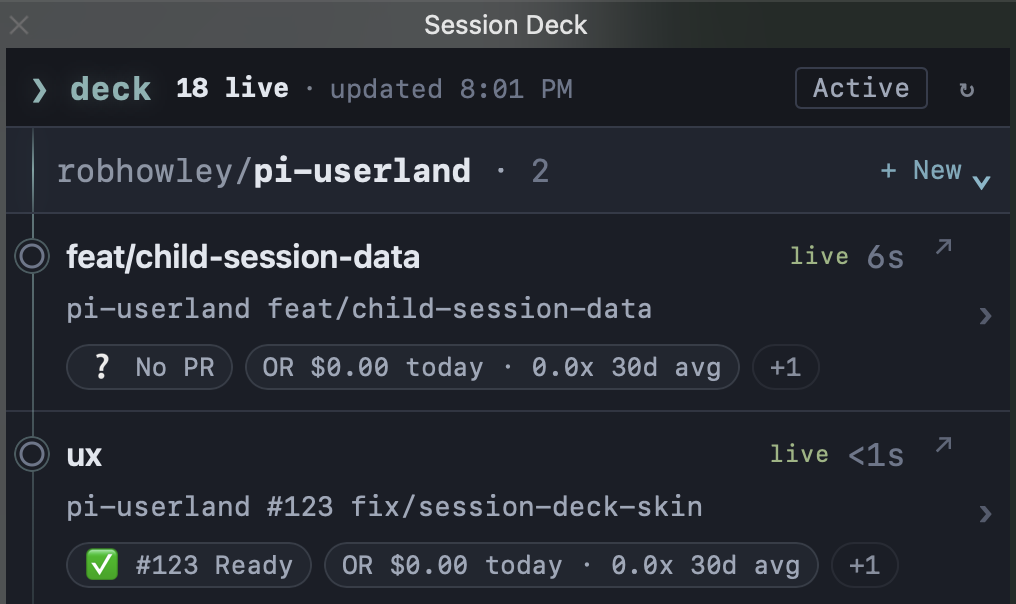
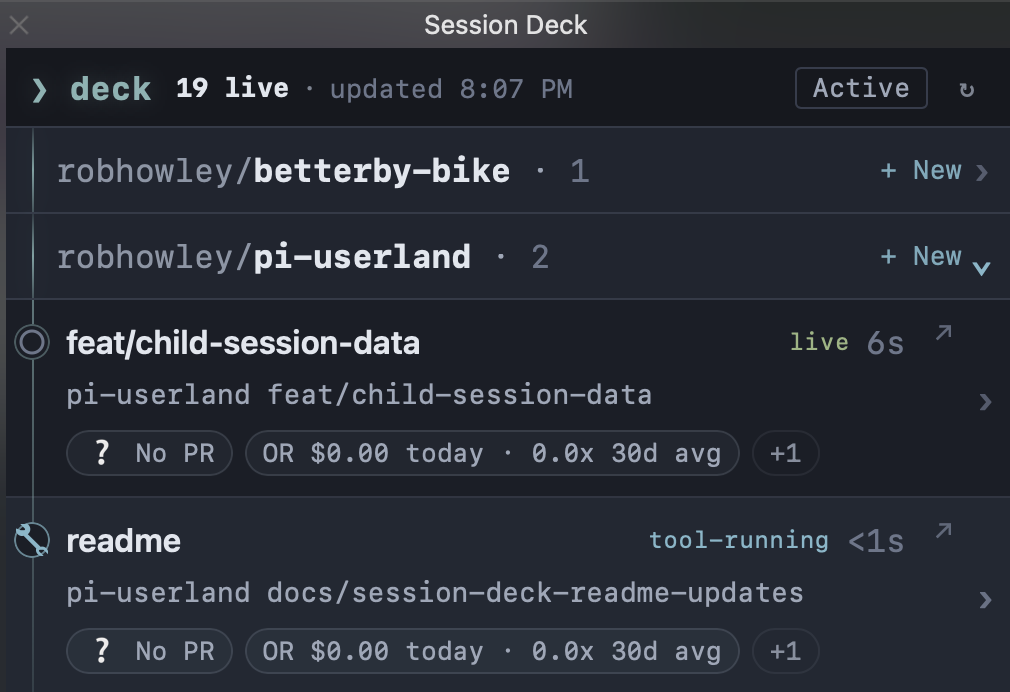
docs(pi-session-deck): clarify Session Deck positioning

diff --git a/packages/pi-session-deck/README.md b/packages/pi-session-deck/README.md
@@ -1,10 +1,10 @@
 # pi-session-deck
 
-A control plane for your Pi agents: live sessions, worktrees, PRs, activity, terminal focus, and new-agent launches in one place.
+A control plane for your Pi agents: live sessions organized by repo, detailed status tracking, terminal multiplexing, and new-agent launches in one place.
 
 <img src="https://raw.githubusercontent.com/robhowley/pi-userland/main/packages/pi-session-deck/img/session-deck-toolbelt.png" alt="Session Deck iTerm2 Toolbelt showing live Pi agent sessions grouped by repo" width="720">
 
-Session Deck gives each Pi agent a live operating surface across the TUI and iTerm2 Toolbelt. Use it to inspect agent liveness, branch context, PR state, status chips, and attached terminal targets without hunting through terminal tabs.
+Session Deck gives each Pi agent a live operating surface across the TUI and iTerm2 Toolbelt. Use it to inspect liveness, branch context, PR state, status chips, and attached terminal targets, then jump back into the right agent without hunting through terminal tabs.
 
 ## Installation
 